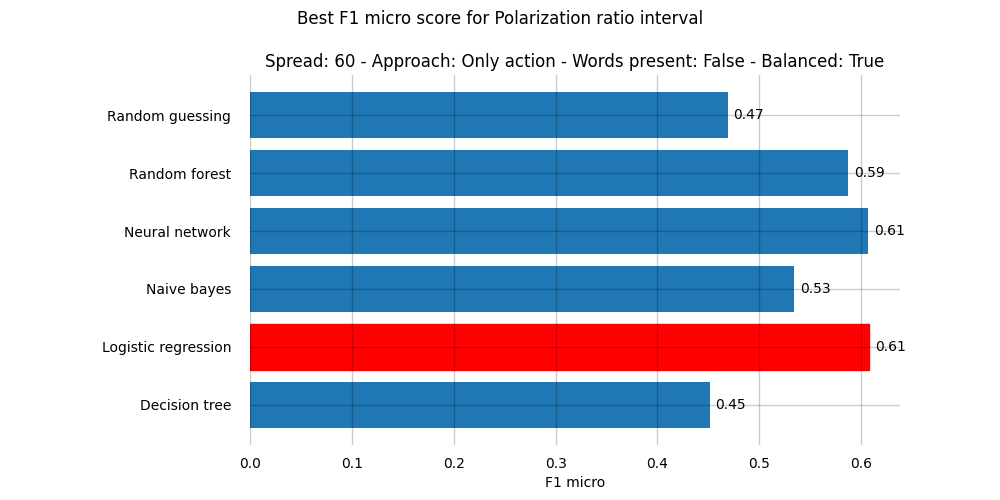
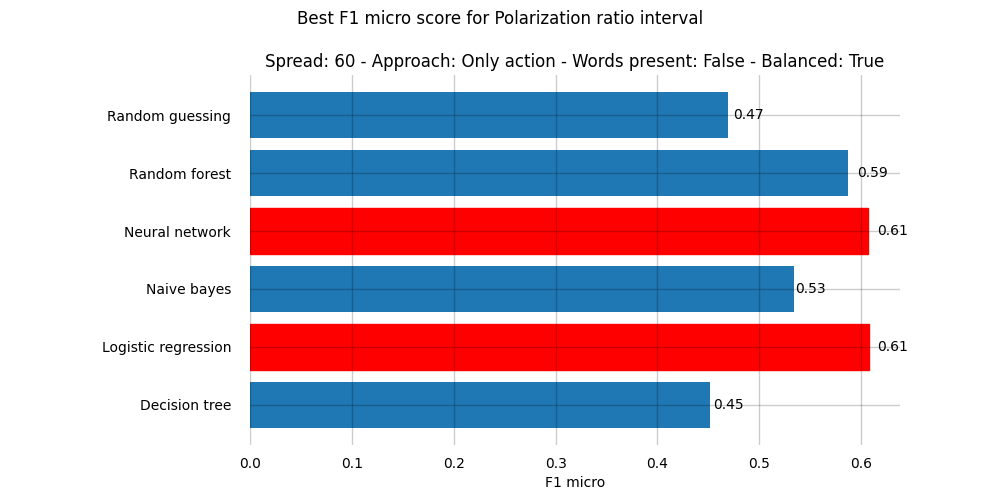
Plot feature selection

diff --git a/get_best_of_all.py b/get_best_of_all.py
@@ -102,9 +102,9 @@ def get_plot(df, best_idx, metric_name, metrics_names):
     fig.suptitle(title)
     ax.set_title(subtitle, loc='center')
     plt.subplots_adjust(left=0.25, top=0.85)
-    max_value = filtered_df[metric_name].max()
+    max_value = round(filtered_df[metric_name].max(), 2)
     for bar in bars:
-        width = bar.get_width()
+        width = round(bar.get_width(), 2)
         if width == max_value:
             bar.set_color('red')
         ax.text(width + 0.01 * width, bar.get_y() + bar.get_height() / 2, f'{width:.2f}',
